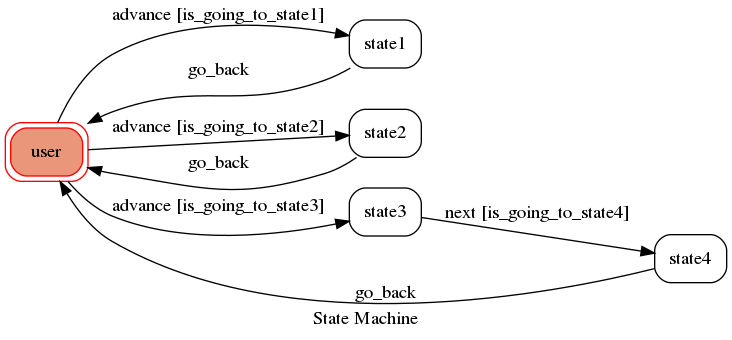
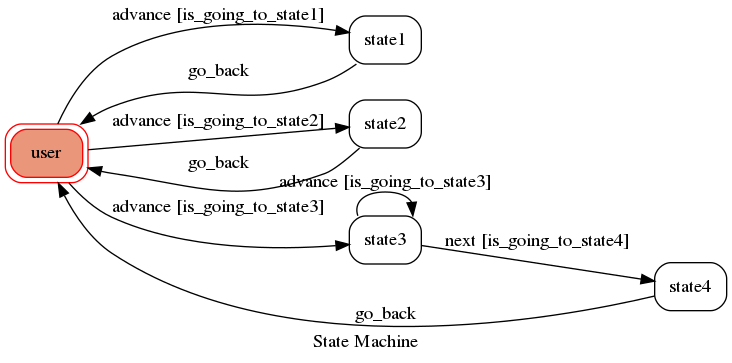
test new method

diff --git a/fsm.py b/fsm.py
@@ -1,6 +1,6 @@
 from transitions.extensions import GraphMachine
 
-from utils import send_text_message
+from utils import send_text_message, send_image
 
 
 class TocMachine(GraphMachine):
@@ -50,12 +50,8 @@ class TocMachine(GraphMachine):
     def on_enter_state3(self, event):
         print("I'm entering state3")
         reply_token = event.reply_token
-        send_text_message(reply_token, "Trigger state3")
-        #self.next()
-        #message = TextSendMessage(text='Hello, world')
-        
-        #message = 'test'
-        #send_text_message(reply_token, message)
+        #send_text_message(reply_token, "Trigger state3")
+        send_image(reply_token, "https://ibb.co/16shSZV")
 
     def on_exit_state3(self):
         print("Leaving state3")

diff --git a/utils.py b/utils.py
@@ -13,6 +13,15 @@ def send_text_message(reply_token, text):
 
     return "OK"
 
+def send_image(reply_token, text):
+    line_bot_api = LineBotApi(channel_access_token)
+    line_bot_api.reply_message(reply_token,ImageSendMessage(
+		original_content_url = text,
+		preview_image_url = text
+            )
+    )
+    return "OK"
+
 
 """
 def send_image_url(id, img_url):
